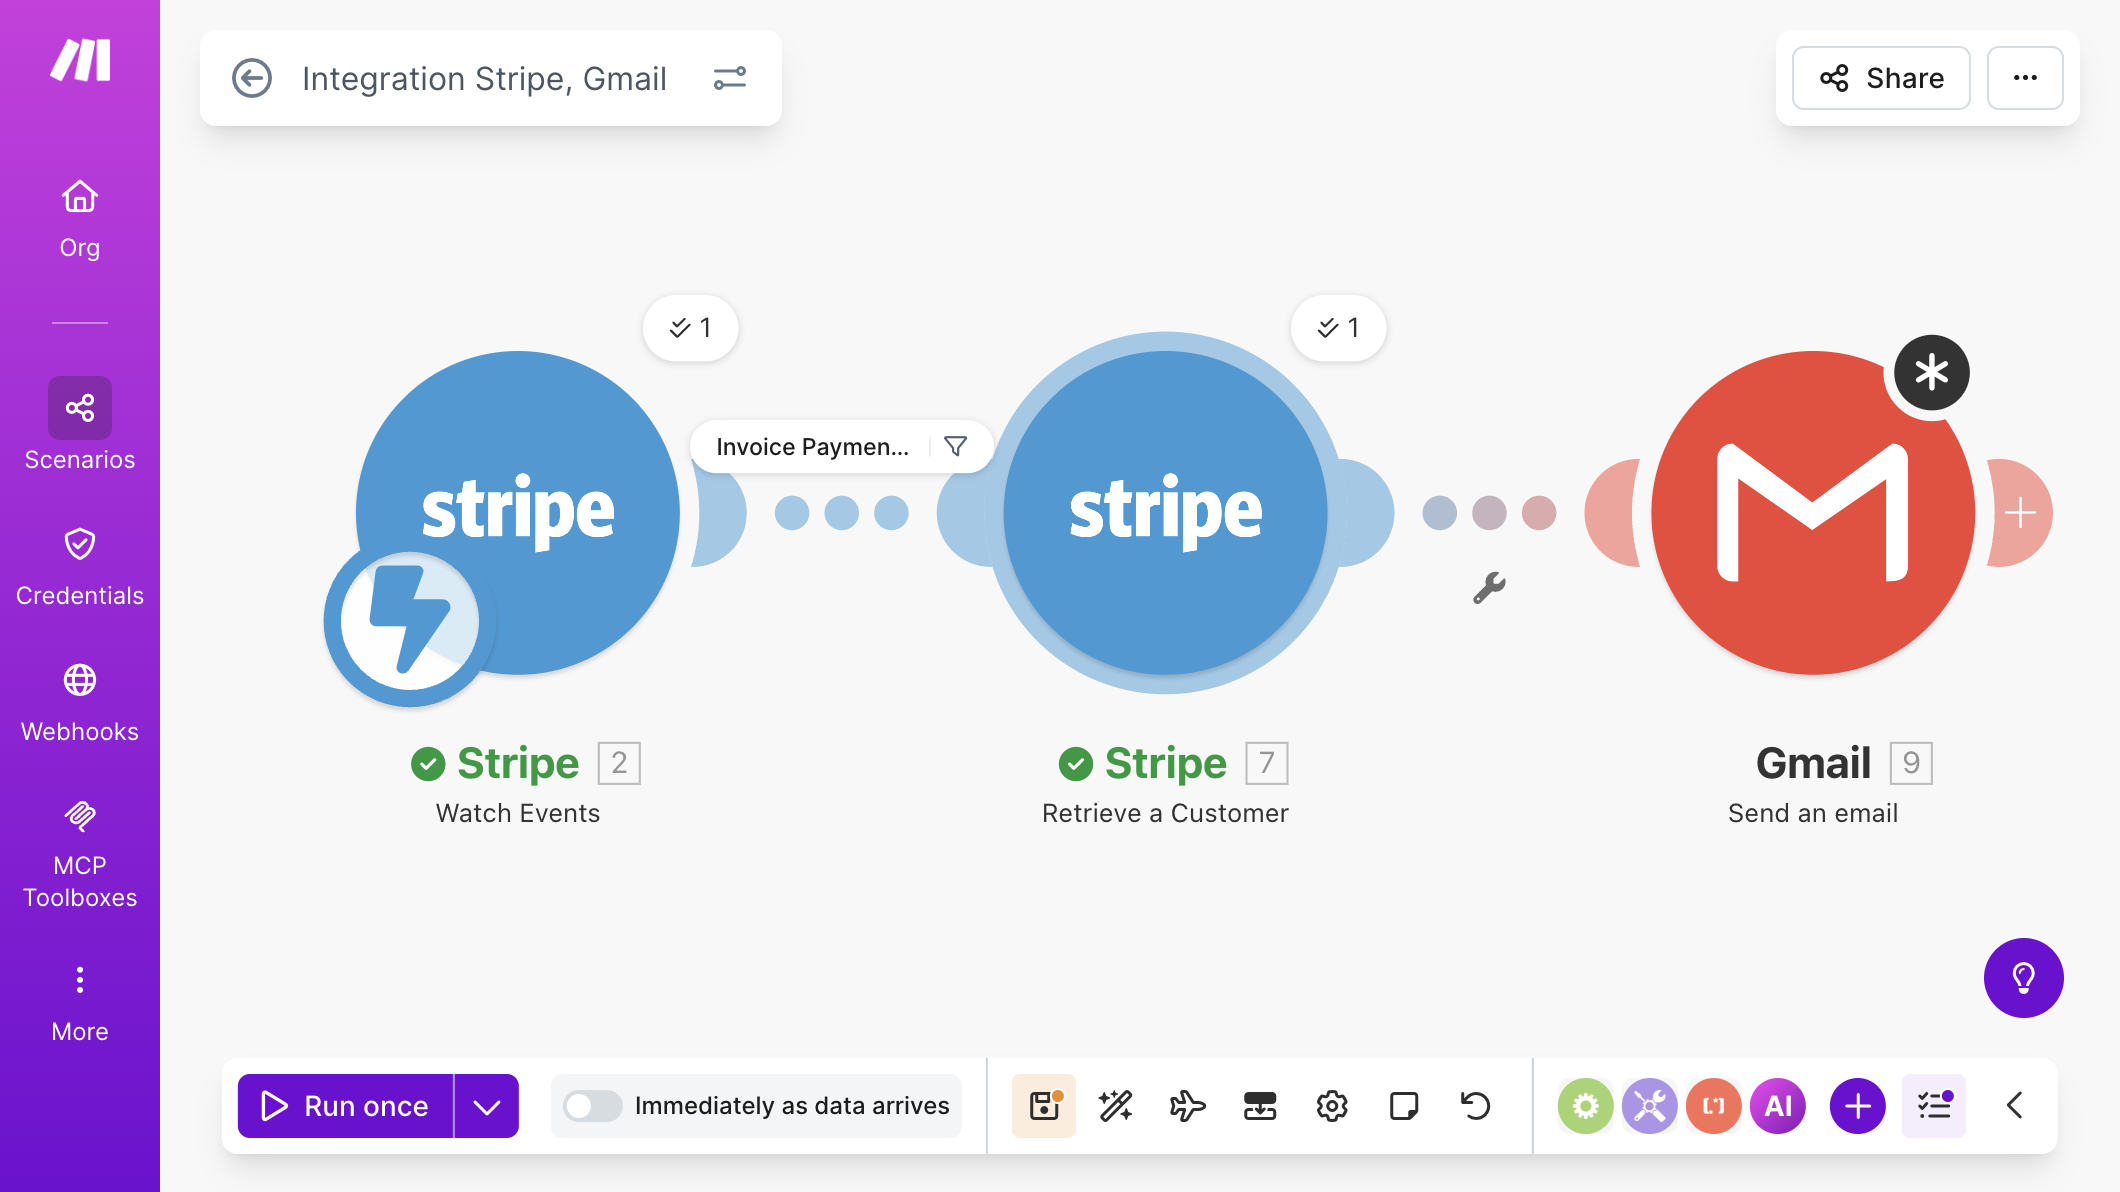
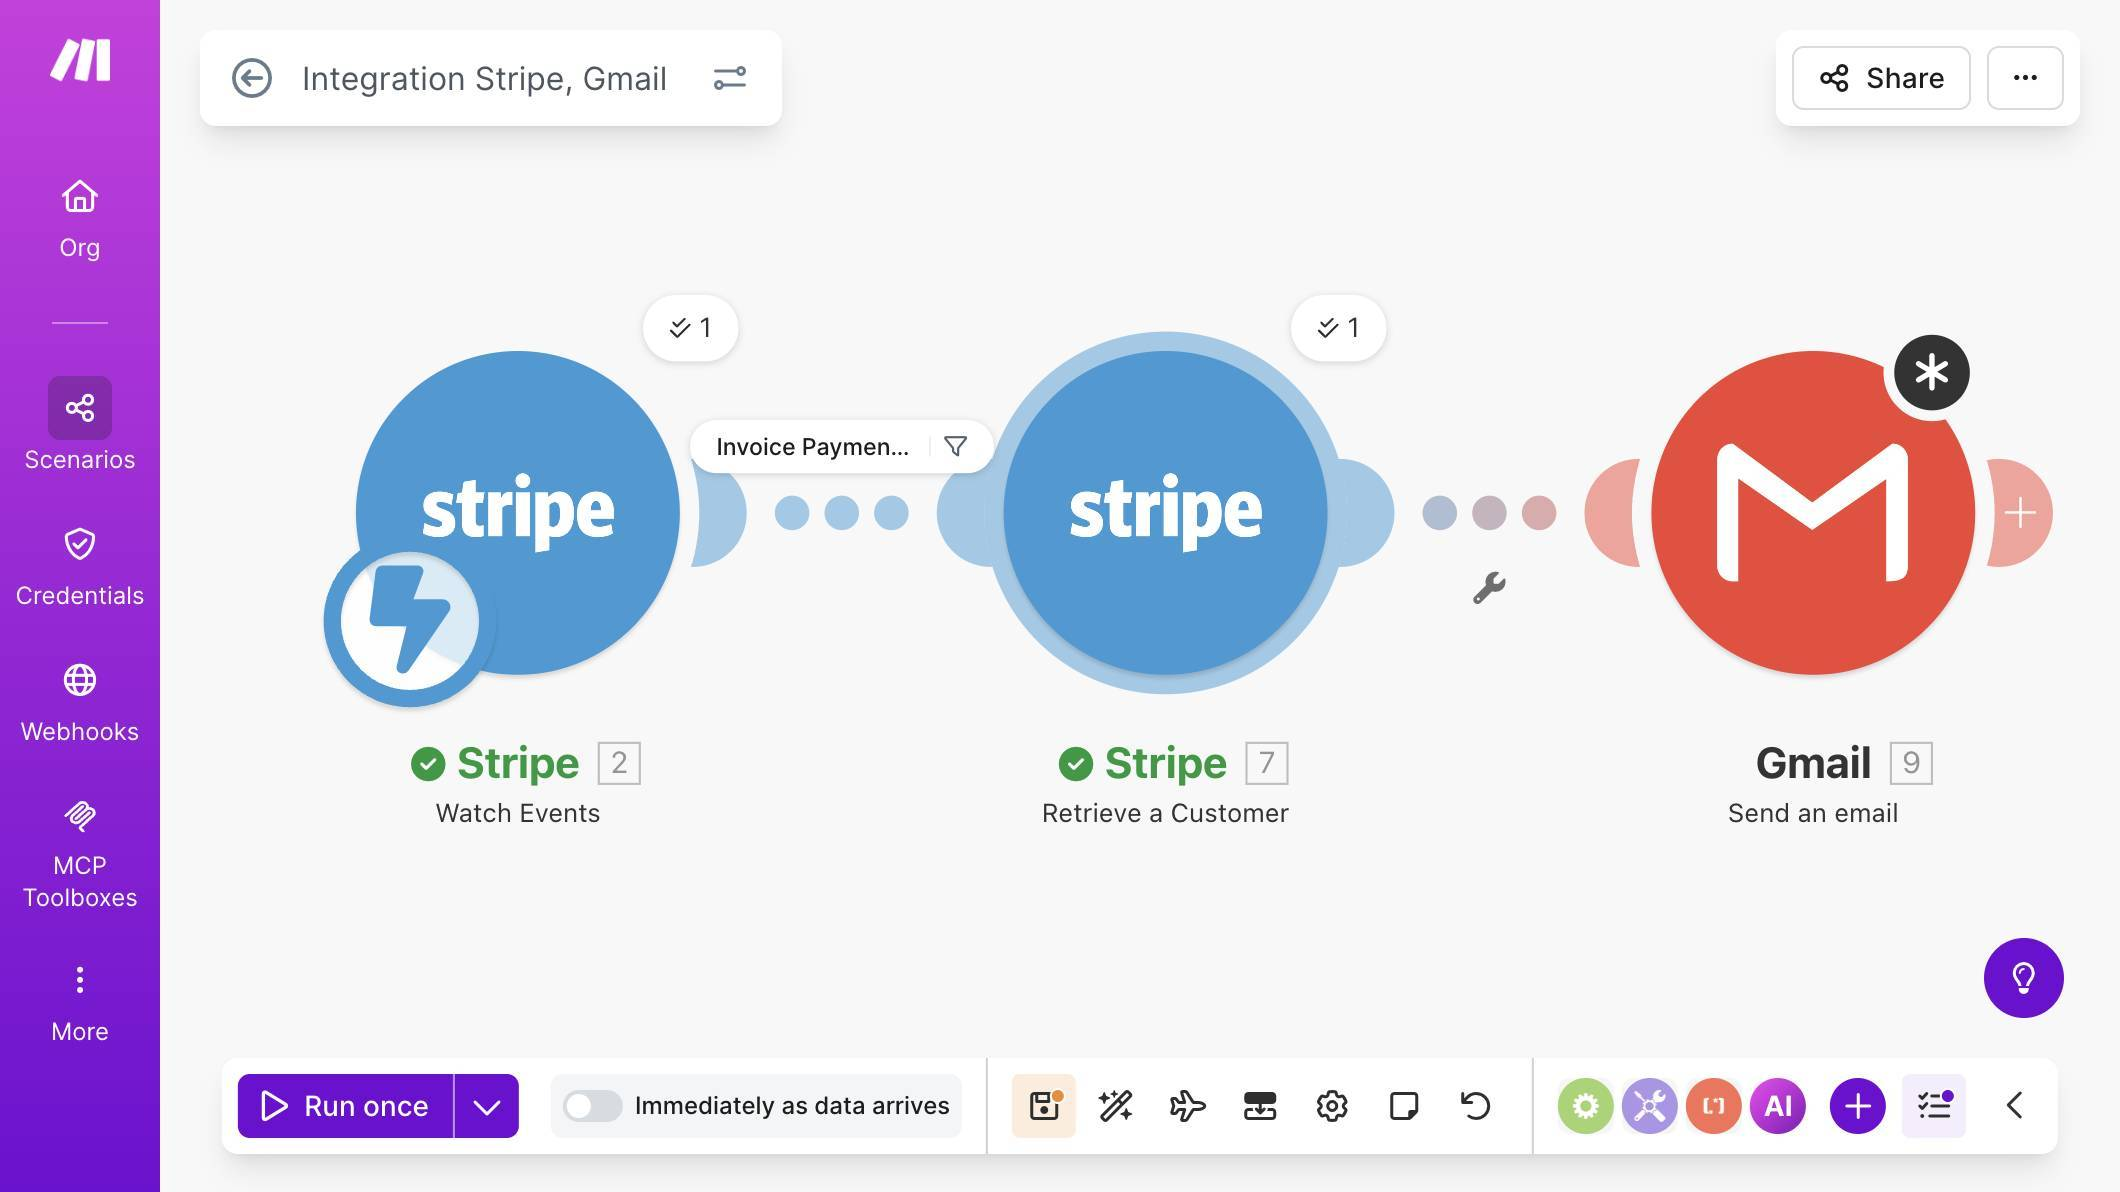
screenshots compression

diff --git a/compress.py b/compress.py
@@ -1,0 +1,22 @@
+import os
+from PIL import Image
+
+def compress_images(directory, quality=70):
+    # Prolazi kroz sve fajlove u folderu
+    for filename in os.listdir(directory):
+        if filename.endswith((".png", ".jpg", ".jpeg")):
+            filepath = os.path.join(directory, filename)
+            
+            # Otvaranje slike
+            img = Image.open(filepath)
+            
+            # Konverzija u RGB (ako je PNG sa transparentnošću, a čuvaš kao JPG)
+            if img.mode in ("RGBA", "P"):
+                img = img.convert("RGB")
+            
+            # Čuvanje sa kompresijom (zamenjuje stari fajl)
+            img.save(filepath, "JPEG", optimize=True, quality=quality)
+            print(f"Komprimovano: {filename}")
+
+# Koristi putanju do tvog assets foldera
+compress_images('public/assets/screenshots')
